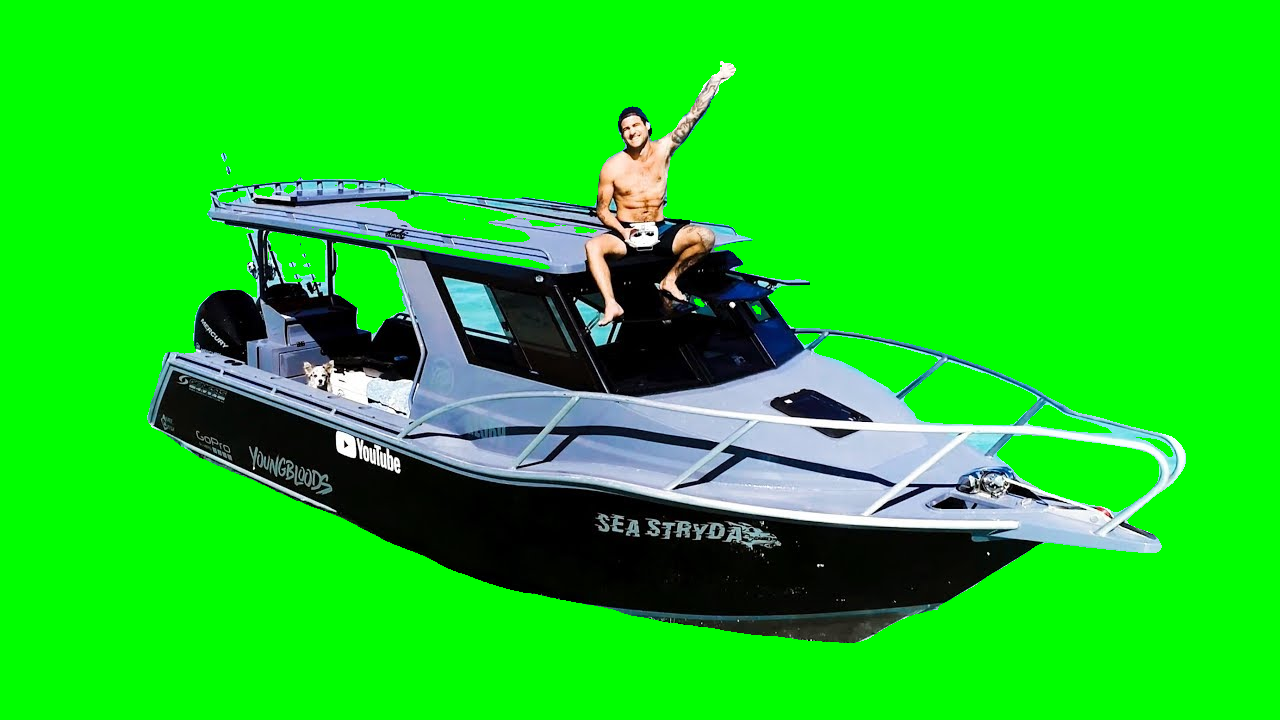
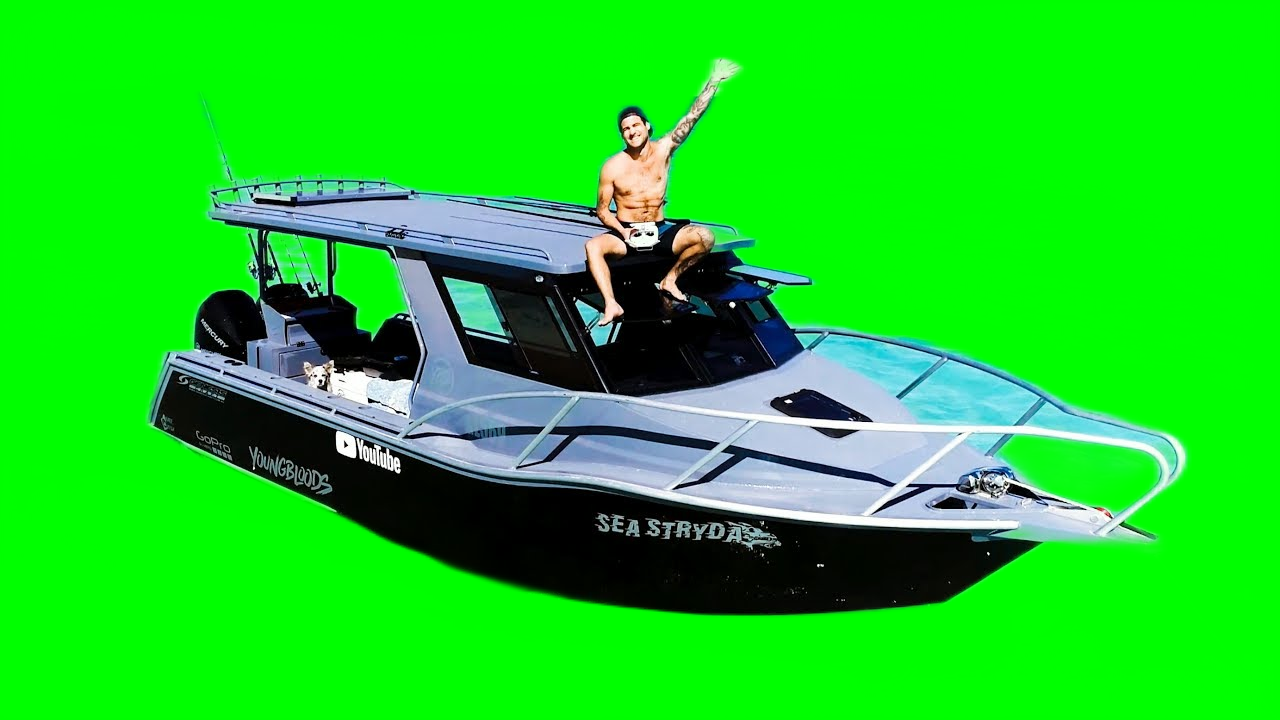
Update.

diff --git a/image_matting/main.c b/image_matting/main.c
@@ -21,6 +21,7 @@
 // #define IMAGE_MATTING_URL "ipc:///tmp/image_matting.ipc"
 #define IMAGE_MATTING_URL "tcp://127.0.0.1:9107"
 
+
 int normal_input(TENSOR *tensor)
 {
 	int i, j;
@@ -43,16 +44,16 @@ int normal_input(TENSOR *tensor)
 	}
 
 	// Change RGB To BGR
-	tensor_R = tensor_start_chan(tensor, 0 /*batch*/, 0 /*channel */);
-	tensor_B = tensor_start_chan(tensor, 0 /*batch*/, 2 /*channel */);
-	for (i = 0; i < tensor->height; i++) {
-		for (j = 0; j < tensor->width; j++) {
-			d = *tensor_B;
-			*tensor_B = *tensor_R;
-			*tensor_R = d;
-			tensor_R++; tensor_B++;
-		}
-	}
+	// tensor_R = tensor_start_chan(tensor, 0 /*batch*/, 0 /*channel */);
+	// tensor_B = tensor_start_chan(tensor, 0 /*batch*/, 2 /*channel */);
+	// for (i = 0; i < tensor->height; i++) {
+	// 	for (j = 0; j < tensor->width; j++) {
+	// 		d = *tensor_B;
+	// 		*tensor_B = *tensor_R;
+	// 		*tensor_R = d;
+	// 		tensor_R++; tensor_B++;
+	// 	}
+	// }
 
 	return RET_OK;
 }
@@ -84,10 +85,6 @@ int normal_output(TENSOR *tensor)
 		for (i = 0; i < size; i++, data++) {
 			d = *data - min;
 			d /= max;
-			if (d < 0.f)
-				d = 0.f;
-			if (d > 1.f)
-				d = 1.f;
 			*data = d;
 		}
 	}
@@ -105,9 +102,16 @@ TENSOR *matting_onnxrpc(int socket, TENSOR *send_tensor)
 
 	resize_send = resize_recv = recv_tensor = NULL;	// avoid compile complaint
 
-	// Matting server limited: only accept 320x320 !!!
-	nh = 320;
-	nw = 320;
+	// Matting server limited: only accept 4 times tensor !!!
+	nh = (send_tensor->height + 3)/4; nh *= 4;
+	nw = (send_tensor->width + 3)/4; nw *= 4;
+	
+	// Limited memory !!!
+	while(nh > 512)
+		nh /= 2;
+	while (nw > 512)
+		nw /= 2;
+
 	if (send_tensor->height == nh && send_tensor->width == nw) {
 		// Normal onnx RPC
 		normal_input(send_tensor);
@@ -136,22 +140,18 @@ int server(char *endpoint, int use_gpu)
 int blend_mask(IMAGE *source_image, TENSOR *mask_tensor)
 {
 	int i, j;
-	float *mask_A;
+	float *mask_A, alpha;
 
 	check_image(source_image);
 	check_tensor(mask_tensor);
 
 	mask_A = tensor_start_chan(mask_tensor, 0 /* batch */, 0 /* channel */);
 	image_foreach(source_image, i, j) {
-		if (*mask_A < 0.50) {
-			// Green screen
-			source_image->ie[i][j].r = 0;
-			source_image->ie[i][j].g = 255;
-			source_image->ie[i][j].b = 0;
-			source_image->ie[i][j].a = 0;
-		} else {
-			source_image->ie[i][j].a = 255;
-		}
+		alpha = *mask_A;
+		source_image->ie[i][j].r = (BYTE)(alpha * source_image->ie[i][j].r + (1 - alpha)*0);
+		source_image->ie[i][j].g = (BYTE)(alpha * source_image->ie[i][j].g + (1 - alpha)*255);
+		source_image->ie[i][j].b = (BYTE)(alpha * source_image->ie[i][j].b + (1 - alpha)*0);
+		source_image->ie[i][j].a = 255;
 		mask_A++;
 	}
 
@@ -238,7 +238,7 @@ int main(int argc, char **argv)
 		if ((socket = client_open(endpoint)) < 0)
 			return RET_ERROR;
 
-		for (i = 1; i < argc; i++)
+		for (i = optind; i < argc; i++)
 			matting(socket, argv[i]);
 
 		client_close(socket);
